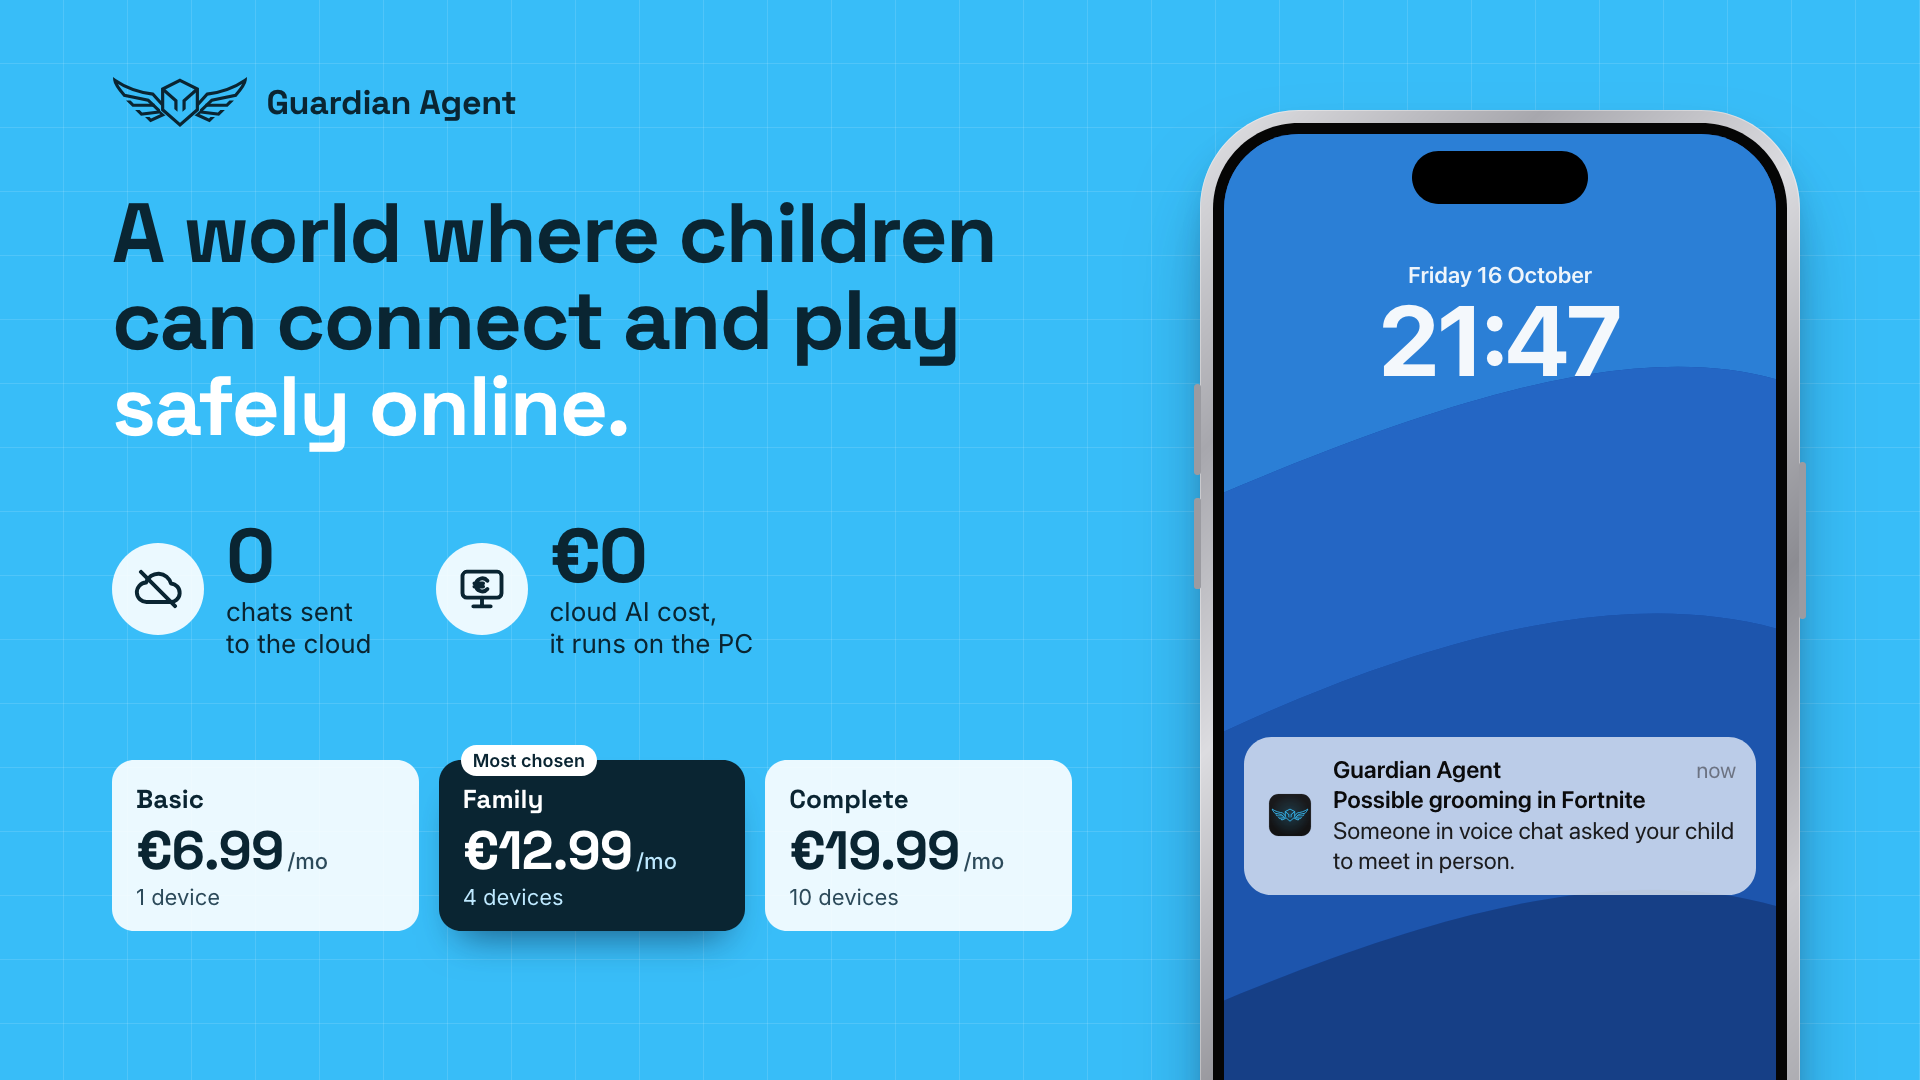
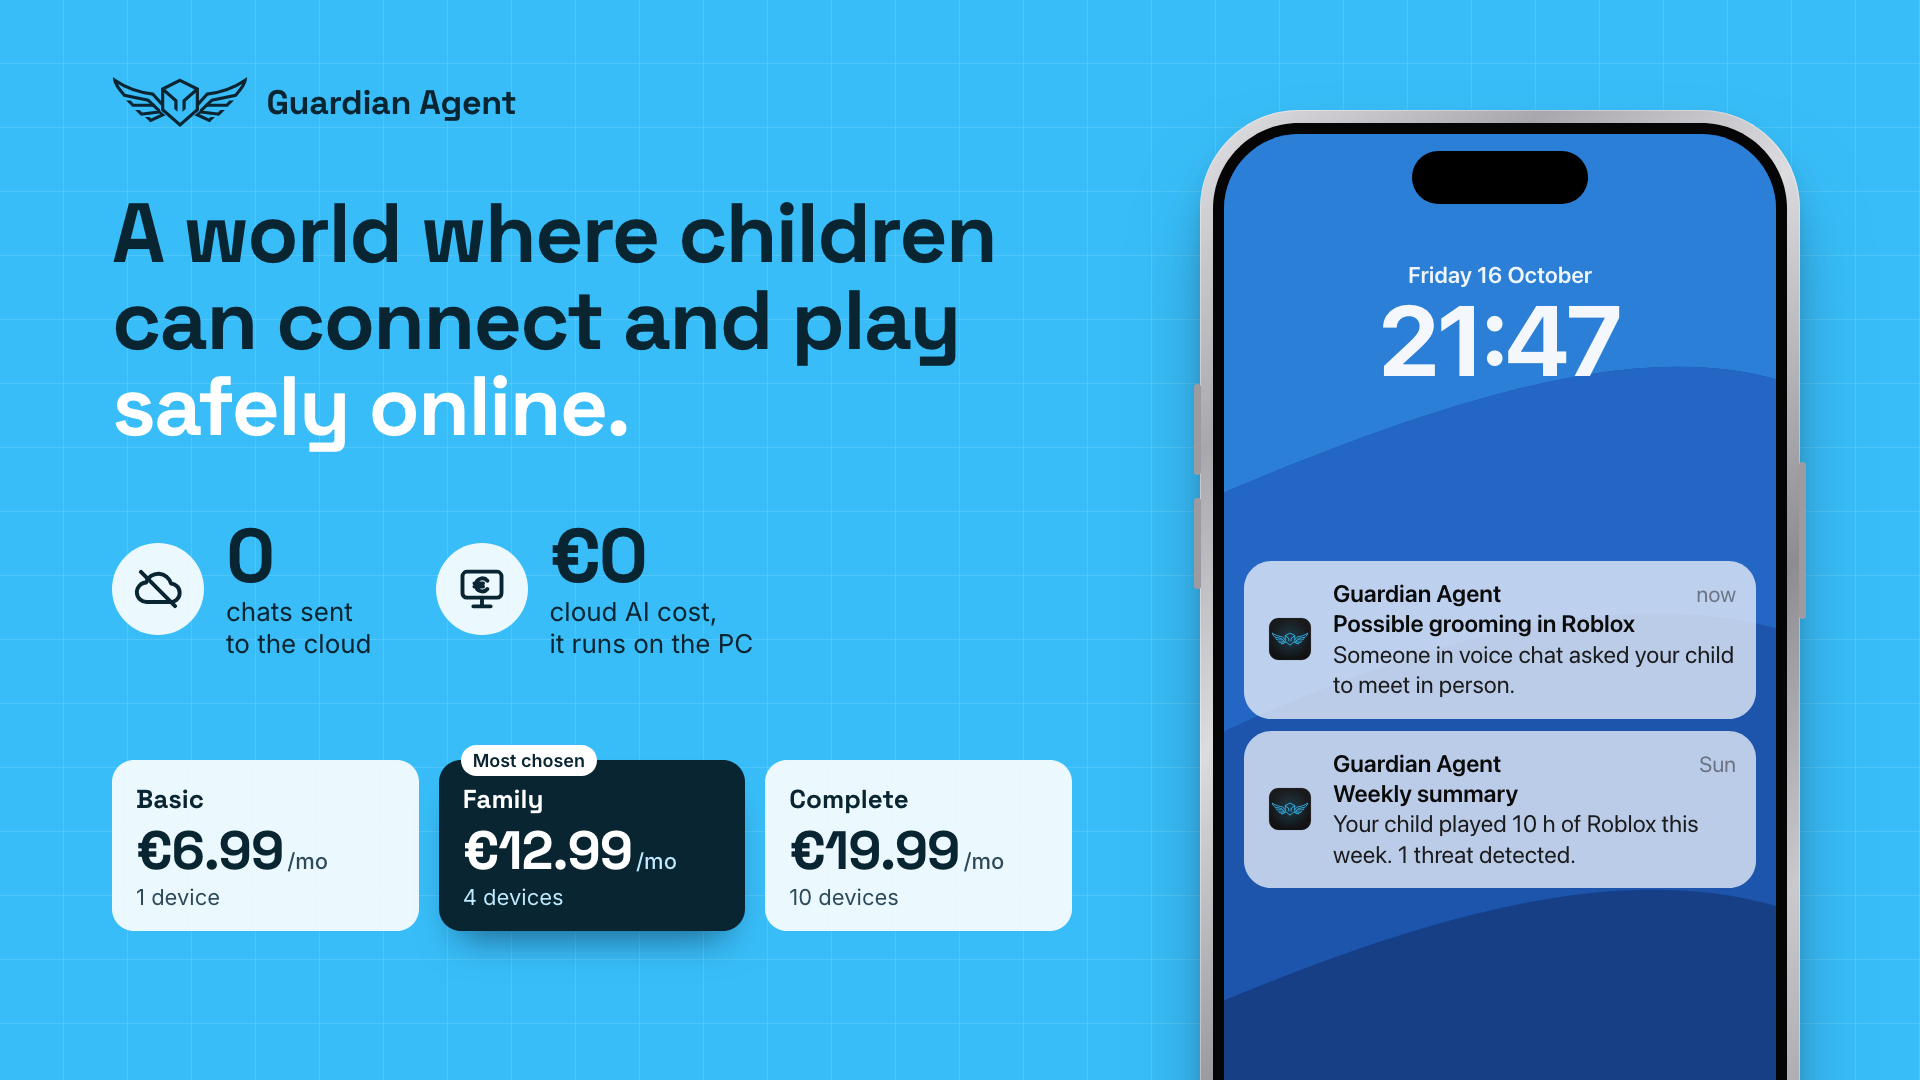
Update pitch slides

Changed region(s): [[0.625, 0.5194, 0.9375, 0.8556]]

diff --git a/slides/v5c-zero.html b/slides/v5c-zero.html
@@ -12,6 +12,7 @@
   .plans { position: absolute; left: 112px; top: 760px; width: 960px; }
   .iphone { --w: 600px; position: absolute; right: 120px; top: 110px; }
   .ios-notif { font-size: 1.1em; }
+  .lock__stack { top: 34%; display: grid; gap: 0.55em; }
 </style>
 </head>
 <body>
@@ -37,8 +38,16 @@
           <img class="ios-notif__icon" src="../assets/app-icon.svg" alt="">
           <div>
             <div class="ios-notif__top"><span class="ios-notif__app">Guardian Agent</span><span class="ios-notif__time">now</span></div>
-            <div class="ios-notif__title">Possible grooming in Fortnite</div>
+            <div class="ios-notif__title">Possible grooming in Roblox</div>
             <div class="ios-notif__body">Someone in voice chat asked your child to meet in person.</div>
+          </div>
+        </div>
+        <div class="ios-notif">
+          <img class="ios-notif__icon" src="../assets/app-icon.svg" alt="">
+          <div>
+            <div class="ios-notif__top"><span class="ios-notif__app">Guardian Agent</span><span class="ios-notif__time">Sun</span></div>
+            <div class="ios-notif__title">Weekly summary</div>
+            <div class="ios-notif__body">Your child played 10 h of Roblox this week. 1 threat detected.</div>
           </div>
         </div>
       </div>

diff --git a/index.html b/index.html
@@ -67,7 +67,7 @@
     <figure><a class="shot" href="slides/png/v5b-phone.png"><img src="slides/png/v5b-phone.png" alt="Option 5b. Phone, minimal" loading="lazy"></a>
       <figcaption><h2>5b. Phone, minimal</h2><p>A realistic iPhone with a Guardian Agent alert on the lock screen. Nothing else.</p></figcaption></figure>
     <figure><a class="shot" href="slides/png/v5c-zero.png"><img src="slides/png/v5c-zero.png" alt="Option 5c. Zero" loading="lazy"></a>
-      <figcaption><h2>5c. Zero</h2><p>Two minimal stats (0 chats to the cloud, €0 cloud AI cost) and the three plans.</p></figcaption></figure>
+      <figcaption><h2>5c. Zero</h2><p>Two minimal stats (0 chats to the cloud, €0 cloud AI cost), the three plans, and the phone with a live alert plus the weekly summary.</p></figcaption></figure>
     <figure><a class="shot" href="slides/png/v5d-app.png"><img src="slides/png/v5d-app.png" alt="Option 5d. Parent app" loading="lazy"></a>
       <figcaption><h2>5d. Parent app</h2><p>The alert as it could look inside a Guardian Agent phone app.</p></figcaption></figure>
     <figure><a class="shot" href="slides/png/v5e-both.png"><img src="slides/png/v5e-both.png" alt="Option 5e. Desktop and phone" loading="lazy"></a>
